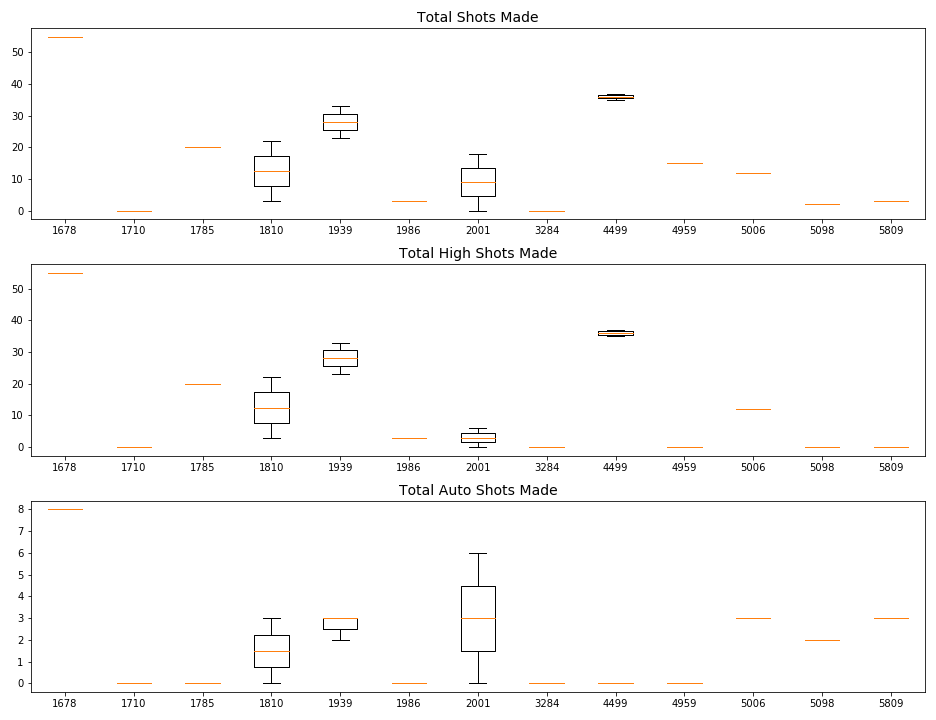
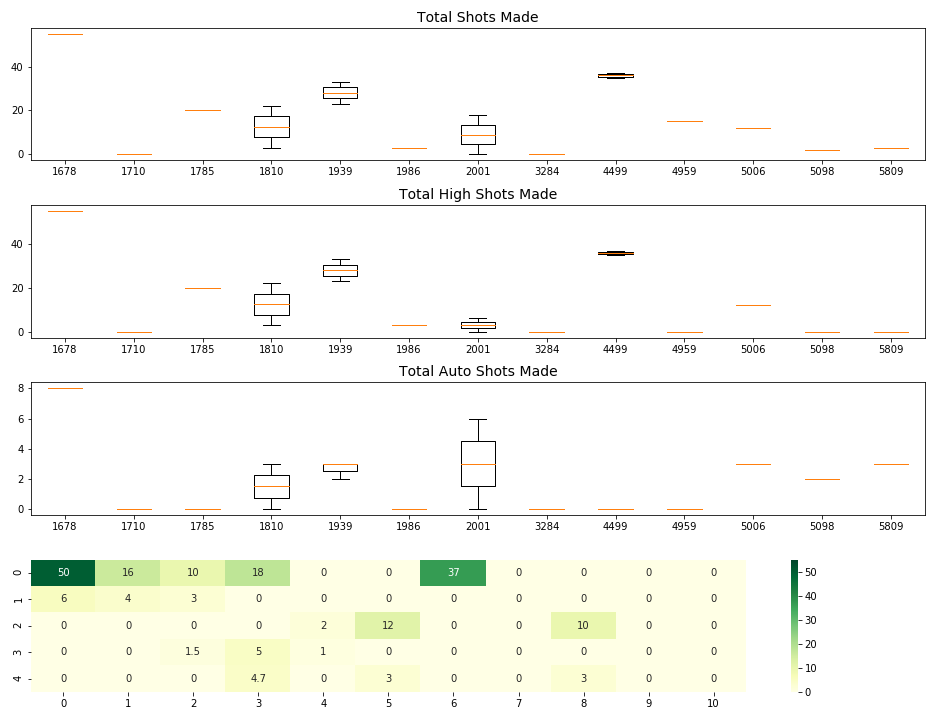
made picklist heatmaps

diff --git a/preMatchReport.html b/preMatchReport.html
@@ -47,6 +47,7 @@ body {
 .graphSheet{
 	width: 894px;
 	display: inline-block;
+	vertical-align:top
 }
 .team-card {
   width: 400px;
@@ -202,7 +203,7 @@ body {
 	  <p>Matches Played on Defense:</p>
   </div>
   <div class="graphSheet">
-	<img src="./1939 Prematch Graphs.png" alt="graph" style="width:893px">
+	<img src="./1939 Prematch Graphs.png" alt="graph" style="width:894px">
   </div>
 </div>
 

diff --git a/boxPlot for all the teams.py b/boxPlot for all the teams.py
@@ -98,11 +98,13 @@ def combineColumn(scoutData):
     
     return scoutData
 
-def getPicklistHeatmapPivot(df, graphVars):
+def getPicklistHeatmap(df, ax, graphVar):
     df['highGoalMakes'] = df['innerGoalMakes'] + df['outerGoalMakes']
-    funkyDf = getHeatMapPivot(df).reset_index()
-    cookedDf = pd.pivot_table(funkyDf, index='teamNo')
-    cookedDf.to_csv(r'Take This')
+    highGoalMakesbyMatchDf = getHeatMapPivot(df.loc[:,['matchNo','teamNo','cycle','shooterPosition', graphVar]])
+    cookedDf = pd.pivot_table(highGoalMakesbyMatchDf.reset_index().drop(['matchNo'], axis=1), index='teamNo')
+    #cookedDf.stack(1).unstack(level=0).to_numpy()
+    sb.heatmap(cookedDf.stack(1).unstack(level=0).to_numpy(), cmap="YlGn", ax=ax, annot=True, vmin=0, vmax=55)
+
 
 def getPicklistBoxplotData(df, graphVar, title, ax):
 
@@ -131,7 +133,7 @@ def getTeamList(df):
 
 def initPicklistGraph(teamList):
    fig = plt.figure(tight_layout=True, figsize=(len(teamList), 10))
-   gs = gridspec.GridSpec(3, 1)
+   gs = gridspec.GridSpec(4, 1)
    return fig, gs
 
 def initMatchReportGraph():
@@ -140,14 +142,16 @@ def initMatchReportGraph():
    return fig, gs
 
 
-def picklistBoxPlots(df):
+def picklistGraphs(df, cycleDf):
     fig, gs = initPicklistGraph(getTeamList(df))
     ax1 = fig.add_subplot(gs[0, 0])
     ax2 = fig.add_subplot(gs[1, 0])
     ax3 = fig.add_subplot(gs[2, 0])
+    ax4 = fig.add_subplot(gs[3, 0])
     getPicklistBoxplotData(df, 'totalMakes', 'Total Shots Made', ax1)
     getPicklistBoxplotData(df, 'highGoalMakes', 'Total High Shots Made', ax2)
     getPicklistBoxplotData(df, 'autoMakes', 'Total Auto Shots Made', ax3)
+    getPicklistHeatmap(cycleDf, ax4, 'highGoalMakes')
     plt.savefig(input('Event name: ') + ' Picklist Graphs')
     plt.show()
 
@@ -229,6 +233,6 @@ def prematchGraphs(maindf, cycledf, team):
     
 maindf = pd.read_csv(filedialog.askopenfilename(title = 'select unfiltered main data file'), sep = '|')
 cycledf = pd.read_csv(filedialog.askopenfilename(title = 'select unfiltered cycle data file'), sep = '|')
-#picklistBoxPlots(maindf)
-prematchGraphs(maindf, cycledf, 1939)
-#getPicklistHeatmapPivot(cycledf.loc[:,['matchNo','teamNo','cycle','shooterPosition', graphVar]])
+picklistGraphs(maindf, cycledf)
+#prematchGraphs(maindf, cycledf, 1939)
+#getPicklistHeatmapPivot(cycledf, 'outerGoalMakes')
